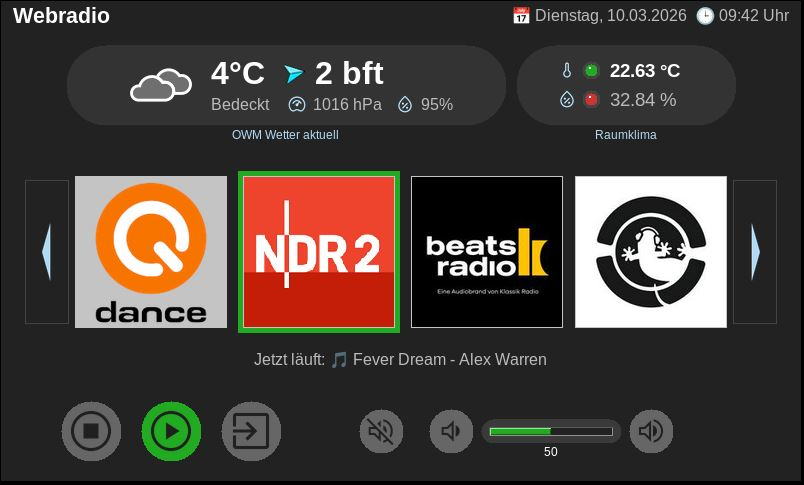
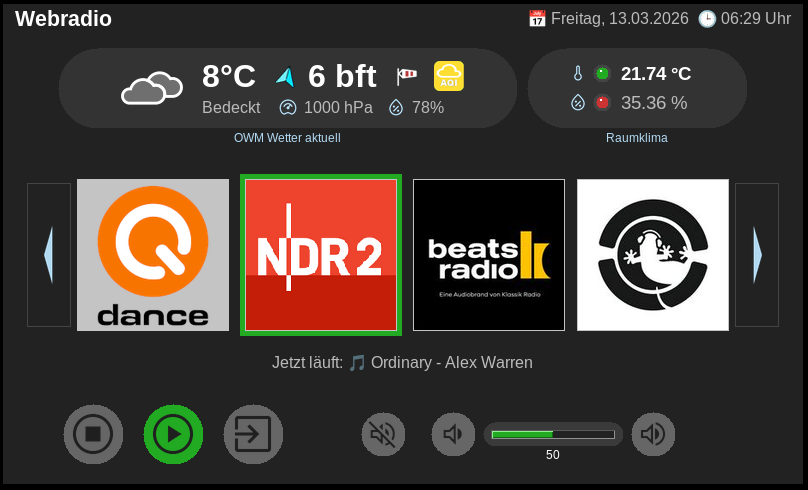
Air Quality Index & Tooltips ergänzt

diff --git a/webradio_advanced.py b/webradio_advanced.py
@@ -53,6 +53,48 @@ stations = {
     }
 }
 
+# Integration Tooltips
+class ToolTip:
+    def __init__(self, widget):
+        self.widget = widget
+        self.tipwindow = None
+        self.text = ""
+
+        widget.bind("<Enter>", self.show)
+        widget.bind("<Leave>", self.hide)
+
+    def show(self, event=None):
+        if self.tipwindow or not self.text:
+            return
+
+        x = self.widget.winfo_rootx() + 20
+        y = self.widget.winfo_rooty() + 20
+
+        self.tipwindow = tw = tk.Toplevel(self.widget)
+        tw.wm_overrideredirect(True)
+        tw.wm_geometry(f"+{x}+{y}")
+
+        label = tk.Label(
+            tw,
+            text=self.text,
+            background="#ffffe0",
+            relief="solid",
+            borderwidth=1,
+            padx=6,
+            pady=3,
+            font=("Arial", 10),
+            wraplength=300  # Breite in Pixeln, danach wird umgebrochen
+        )
+        label.pack()
+
+    def hide(self, event=None):
+        if self.tipwindow:
+            self.tipwindow.destroy()
+            self.tipwindow = None
+
+    def update_text(self, text):
+        self.text = text
+
 # Absoluter Pfad zur .env-Datei relativ zum Skript
 env_path = Path(__file__).parent / ".env"
 load_dotenv(dotenv_path=env_path)
@@ -198,25 +240,26 @@ def update_weather():
         # Wind
         wind_deg = data["current"]["wind_deg"]
         wind_speed = data["current"]["wind_speed"]
+        wind_bft = ms_to_bft(wind_speed)
         
         # Windböen (falls vorhanden)
         gust_speed = data["current"].get("wind_gust", wind_speed)
         gust_bft = ms_to_bft(gust_speed)
         
-        # Beaufort berechnen
-        if wind_speed < 0.3: bft = 0
-        elif wind_speed < 1.6: bft = 1
-        elif wind_speed < 3.4: bft = 2
-        elif wind_speed < 5.5: bft = 3
-        elif wind_speed < 8.0: bft = 4
-        elif wind_speed < 10.8: bft = 5
-        elif wind_speed < 13.9: bft = 6
-        elif wind_speed < 17.2: bft = 7
-        elif wind_speed < 20.8: bft = 8
-        elif wind_speed < 24.5: bft = 9
-        elif wind_speed < 28.5: bft = 10
-        elif wind_speed < 32.7: bft = 11
-        else: bft = 12
+        # # Beaufort berechnen
+        # if wind_speed < 0.3: bft = 0
+        # elif wind_speed < 1.6: bft = 1
+        # elif wind_speed < 3.4: bft = 2
+        # elif wind_speed < 5.5: bft = 3
+        # elif wind_speed < 8.0: bft = 4
+        # elif wind_speed < 10.8: bft = 5
+        # elif wind_speed < 13.9: bft = 6
+        # elif wind_speed < 17.2: bft = 7
+        # elif wind_speed < 20.8: bft = 8
+        # elif wind_speed < 24.5: bft = 9
+        # elif wind_speed < 28.5: bft = 10
+        # elif wind_speed < 32.7: bft = 11
+        # else: bft = 12
 
         # Druck & Luftfeuchtigkeit
         pressure = data["current"]["pressure"]
@@ -234,12 +277,12 @@ def update_weather():
         weather_wind_label.image = wind_photo  # Referenz halten
 
         # Beaufort-Wert daneben aktualisieren
-        bft_label.config(text=f"{bft} bft")
+        bft_label.config(text=f"{wind_bft} bft")
 
         # --- Windwarnsymbol setzen ---
         if 5 <= gust_bft <= 7:
-            wind_warning_label.config(image=wind_icon_small)
-            wind_warning_label.image = wind_icon_small
+            wind_warning_label.config(image=wind_icon)
+            wind_warning_label.image = wind_icon
 
         elif 8 <= gust_bft <= 9:
             wind_warning_label.config(image=sturm_icon)
@@ -293,13 +336,80 @@ def update_weather():
             langloch_height // 2
         )
 
+        # Windgeschwindigkeit Tooltip
+        update_wind_tooltip(wind_bft, wind_speed_tooltip)
+
+        # Böen Tooltip
+        update_wind_tooltip(gust_bft, wind_gust_tooltip)
+
     except Exception as e:
         weather_temp_var.set("--°C")
         weather_desc_var.set("Wetterdaten Fehler")
         print("Weather update error:", e)
 
+    # AQI-Daten von OpenWeatherMap abrufen
+    try:
+
+        url_aqi = (
+            f"https://api.openweathermap.org/data/2.5/air_pollution"
+            f"?lat={WEATHER_LAT}"
+            f"&lon={WEATHER_LON}"
+            f"&appid={WEATHER_API_KEY}"
+        )
+
+        response_aqi = requests.get(url_aqi, timeout=10)
+        data_aqi = response_aqi.json()
+
+        aqi_value = data_aqi["list"][0]["main"]["aqi"]
+
+        update_aqi_icon(aqi_value)
+
+    except Exception as e:
+        print("Fehler beim Abrufen des AQI:", e)
+
     # alle 10 Minuten wiederholen
     root.after(600000, update_weather)  # 600000 = alle 10 Minuten
+
+def update_aqi_icon(aqi_value):
+
+    key = f"aqi{aqi_value}"
+
+    if key in weather_icon_images:
+        aqi_label.config(image=weather_icon_images[key])
+        aqi_label.image = weather_icon_images[key]
+
+    aqi_text = {
+        1: "Gute Luftqualität",
+        2: "Moderate/Mäßige Luftqualität",
+        3: "Ungesunde Luftqualität für sensible Gruppen",
+        4: "Ungesunde Luftqualität",
+        5: "Sehr ungesunde Luftqualität",
+        6: "Gefährliche Luftqualität"
+    }
+
+    if aqi_value in aqi_text:
+        aqi_tooltip.update_text(f"AQI {aqi_value} – {aqi_text[aqi_value]}")    
+
+def update_wind_tooltip(value, tooltip):
+    wind_tips = {
+    0: "Windstill",
+    1: "Leichter Wind",
+    2: "Leichter bis mäßiger Wind",
+    3: "Mäßiger Wind, sichern von leichten Gegenständen",
+    4: "Frischer Wind, Vorsicht bei losem Material",
+    5: "Starker Wind, draußen aufpassen, lose Gegenstände sichern",
+    6: "Stürmische Böen, riskante Aktivitäten vermeiden",
+    7: "Stürmisch, erhöhte Vorsicht draußen",
+    8: "Stürmische Böen, Aufenthalt draußen riskant",
+    9: "Schwerer Sturm, gefährlich, zu Hause bleiben",
+    10: "Sehr schwerer Sturm, Gefahr für Menschen und Gebäude",
+    11: "Orkanartige Böen, höchste Vorsicht",
+    12: "Orkan, lebensgefährlich draußen"
+}
+    # Begrenzung auf gültige Bft-Werte
+    value = max(0, min(12, value))
+    tip_text = f"{value} Bft – {wind_tips[value]}"
+    tooltip.update_text(tip_text)
 
 def check_timeout():
     """Überprüft, ob die Sensorwerte zu alt sind und färbt die LEDs ggf. grau."""
@@ -627,7 +737,7 @@ humidity_icon = load_icon("humidity.png", (20,20))
 wind_rose_base_img = Image.open(os.path.join(BASE_DIR, "img", "wind_rose.png")).convert("RGBA")
 wind_rose_base_img = wind_rose_base_img.resize((20,20), Image.LANCZOS)
 wind_rose_photo = ImageTk.PhotoImage(wind_rose_base_img)
-wind_icon_small = ImageTk.PhotoImage(
+wind_icon = ImageTk.PhotoImage(
     Image.open(os.path.join(BASE_DIR, "img/weather_icons/wind.png")).resize((32, 32))
 )
 
@@ -659,7 +769,12 @@ for filename in os.listdir(icon_folder):
         code = filename.replace(".png", "")
         path = os.path.join(icon_folder, filename)
 
-        img = Image.open(path).resize((icon_size, icon_size), Image.LANCZOS)
+        if filename.startswith("aqi"):
+            size = 30
+        else:
+            size = icon_size
+
+        img = Image.open(path).resize((size, size), Image.LANCZOS)
         weather_icon_images[code] = ImageTk.PhotoImage(img)
 
 # Header
@@ -686,6 +801,11 @@ datetime_label.pack(side="right", padx=10)
 # Gesamtframe für beide Langlöcher
 dashboard_frame = tk.Frame(root, bg="#222222")
 dashboard_frame.pack(anchor="center", pady=15)
+
+
+################################
+#            Wetter            #
+################################
 
 # ----- Wetteranzeige als "Langloch" -----
 langloch_height = 80
@@ -775,10 +895,20 @@ weather_wind_label.pack(side="left", padx=(15,0))
 bft_label = tk.Label(top_row_frame, text="0 bft",  # Platzhalter
                      font=("Arial", 24, "bold"), bg="#333333", fg="white")
 bft_label.pack(side="left", padx=(5,0))
+wind_speed_tooltip = ToolTip(bft_label)
 
 # Wind-Warnsymbol (startet leer)
 wind_warning_label = tk.Label(top_row_frame, bg="#333333")
 wind_warning_label.pack(side="left", padx=(10,0))
+
+wind_gust_tooltip = ToolTip(wind_warning_label)
+
+# AQI-Symbol (startet mit Default-Symbol)
+aqi_label = tk.Label(top_row_frame, image=weather_icon_images["aqi1"], bg="#333333")
+aqi_label.image = weather_icon_images["aqi1"]
+aqi_label.pack(side="left", padx=(10,0))
+
+aqi_tooltip = ToolTip(aqi_label)
 
 # Untere Zeile
 bottom_row_frame = tk.Frame(weather_text_frame, bg="#333333")
@@ -813,6 +943,11 @@ humidity_label_icon.pack(side="left")
 humidity_label_text = tk.Label(weather_details_frame, text="0%",
                                font=("Arial", 12), bg="#333333", fg="#bbbbbb")
 humidity_label_text.pack(side="left", padx=(3,0))
+
+
+################################
+#          Raumklima           #
+################################
 
 # ----- Raumklima-Langloch -----
 raumklima_width = 220
@@ -1266,14 +1401,21 @@ def on_message(client, userdata, msg):
     global last_temp_update, last_hum_update
     try:
         value = float(msg.payload.decode())
-        if msg.topic == TEMP_TOPIC:
-            room_temp_var.set(f"{value:.2f} °C")
-            update_led(temp_led, temp_led_circle, value, "temp")
-            last_temp_update = time.time()
-        elif msg.topic == HUMI_TOPIC:
-            room_hum_var.set(f"{value:.2f} %")
-            update_led(hum_led, hum_led_circle, value, "hum")
-            last_hum_update = time.time()
+
+        def gui_update():
+            global last_temp_update, last_hum_update
+            if msg.topic == TEMP_TOPIC:
+                room_temp_var.set(f"{value:.2f} °C")
+                update_led(temp_led, temp_led_circle, value, "temp")
+                last_temp_update = time.time()
+            elif msg.topic == HUMI_TOPIC:
+                room_hum_var.set(f"{value:.2f} %")
+                update_led(hum_led, hum_led_circle, value, "hum")
+                last_hum_update = time.time()
+
+        # GUI-Update über root.after() in Hauptthread einreihen
+        root.after(0, gui_update)    
+
     except Exception as e:
         print("MQTT Message Fehler:", e)
 
@@ -1284,7 +1426,8 @@ def mqtt_thread():
     client.connect(MQTT_HOST, MQTT_PORT, 60)
     client.loop_forever()
 
-threading.Thread(target=mqtt_thread, daemon=True).start()
+# threading.Thread(target=mqtt_thread, daemon=True).start()
+root.after(1000, lambda: threading.Thread(target=mqtt_thread, daemon=True).start())
 # endregion MQTT-Abruf
 
 

diff --git a/README.md b/README.md
@@ -8,9 +8,11 @@ Ggf. müssen dann allerdings noch Anpassungen vorgenommen werden.
 
 ## Features
 
-- Anzeige von aktuellen Wetterdaten (OpenWeatherMap)  
+- Anzeige von aktuellen Wetterdaten (OpenWeatherMap):
+  - Wettersymbol, Temperatur, Windrichtung, Windstärke, Windwarnung, AQI-Index (Air quality) 
 - Raumklimaanzeige mit Temperatur & Luftfeuchtigkeit  
-- Farbige LEDs mit realistischem Glow-Effekt  
+- Farbige LEDs mit realistischem Glow-Effekt
+- Tooltips  
 - Senderliste mit Pfeilnavigation  
 - Player-Steuerung: Play, Stop, Exit, Lautstärke, Mute, Lautstärke-Balken  
 - Vollständig in **Tkinter** umgesetzt  
@@ -101,6 +103,7 @@ webradio/
 │   └── ... weitere Symbole, Steuerungs- und Sender-Icons
 │   └── weather_icons/
 │   	└── 01d.png
+│   	└── aqi1.png
 │   	└── orkan.png
 │   	└── ... weitere Wetter-Icons
 ├── README.md
